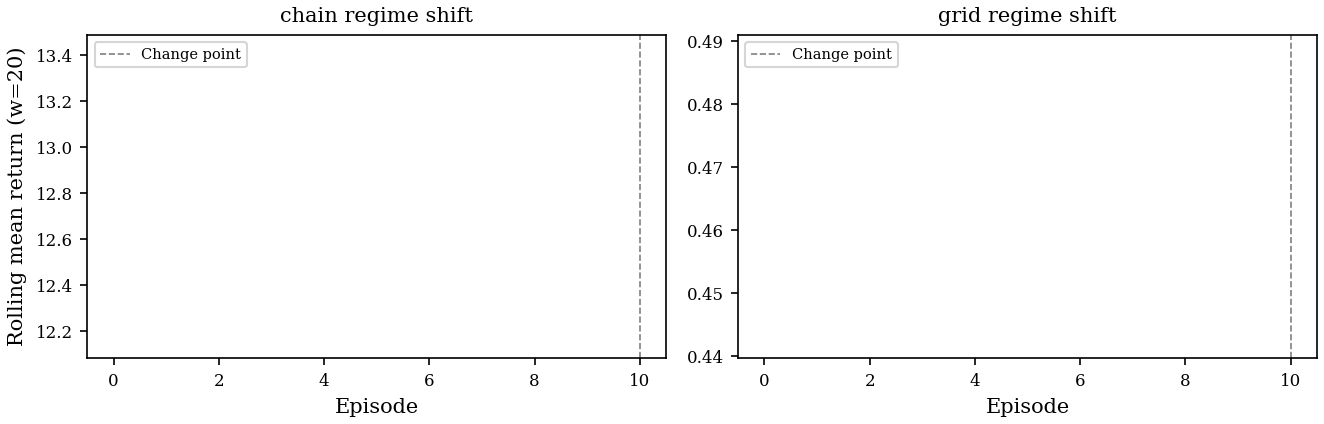
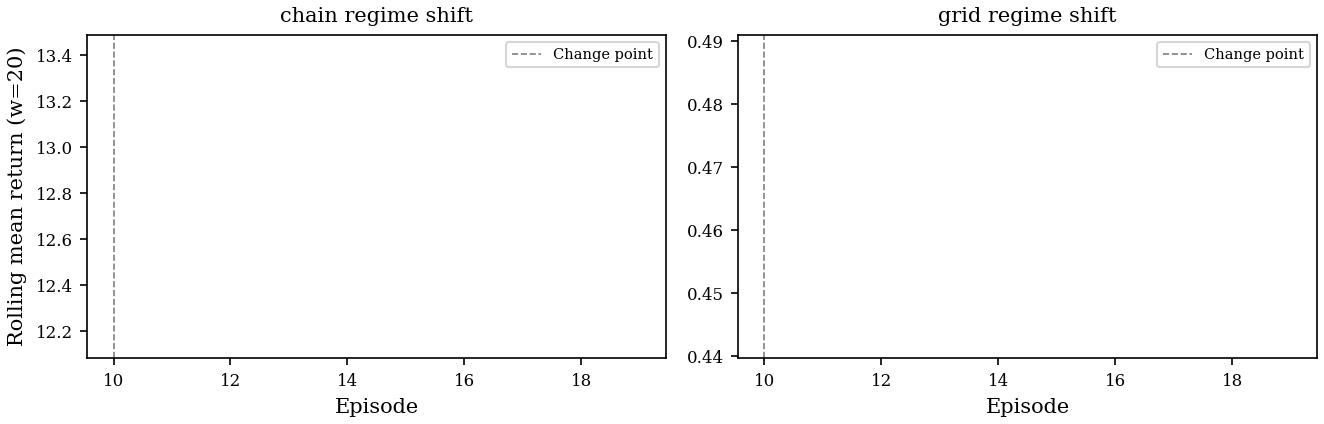
Fix R9-1: right-align rolling mean x-axis in adaptation figures
np.convolve(mode="valid") value i spans episodes[i..i+window-1].
Plotting at episodes[:len(rolling)] placed each value at the START
of its window, shifting the whole adaptation curve left by window-1=19
episodes and misaligning the change_at_episode vertical marker.

Fix: plot at episodes[window-1 : window-1+len(rolling)] so each value
is assigned to the LAST episode in its window.

diff --git a/experiments/weighted_lse_dp/analysis/make_phase2_figures.py b/experiments/weighted_lse_dp/analysis/make_phase2_figures.py
@@ -494,11 +494,15 @@ def fig_adaptation_plots(
                 ax.set_title(task.replace("_", " "))
                 continue
 
-        # Rolling mean.
+        # Rolling mean.  np.convolve(mode="valid") produces n-window+1 values;
+        # value i represents episodes[i..i+window-1].  Right-align so each
+        # value is plotted at the LAST episode in its window (episodes[i+window-1]).
+        # This keeps the change_at_episode marker correctly aligned with the
+        # plotted recovery trajectory (R9-1 fix).
         if len(returns) >= window:
             kernel = np.ones(window) / window
             rolling = np.convolve(returns, kernel, mode="valid")
-            ep_rolling = episodes[:len(rolling)]
+            ep_rolling = episodes[window - 1 : window - 1 + len(rolling)]
         else:
             rolling = returns
             ep_rolling = episodes
